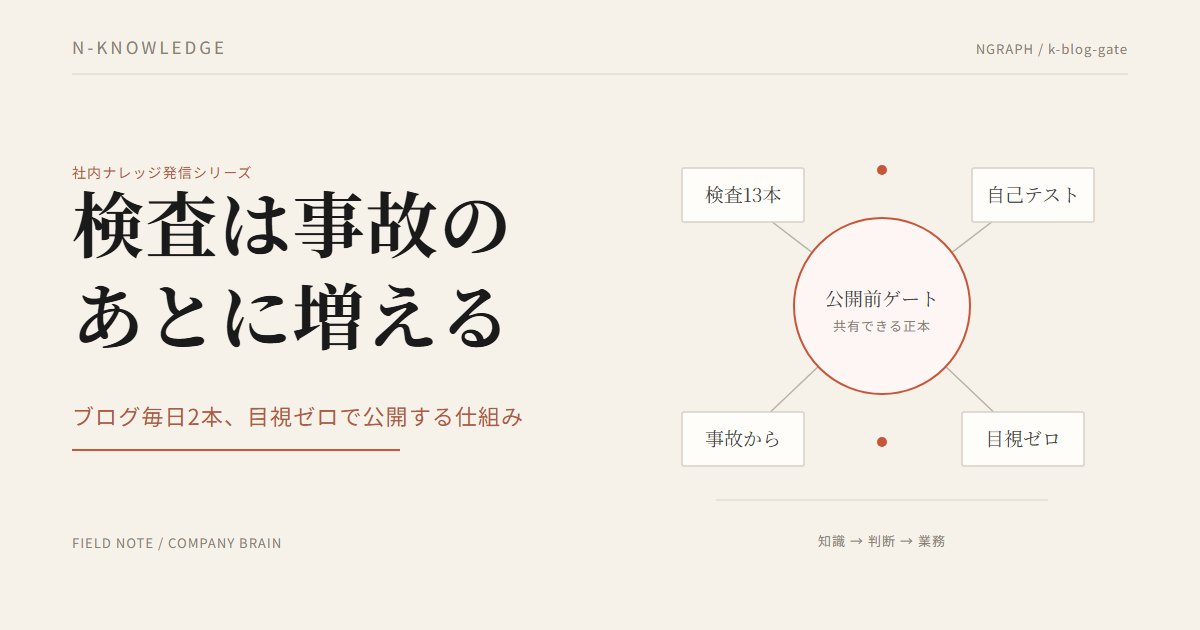
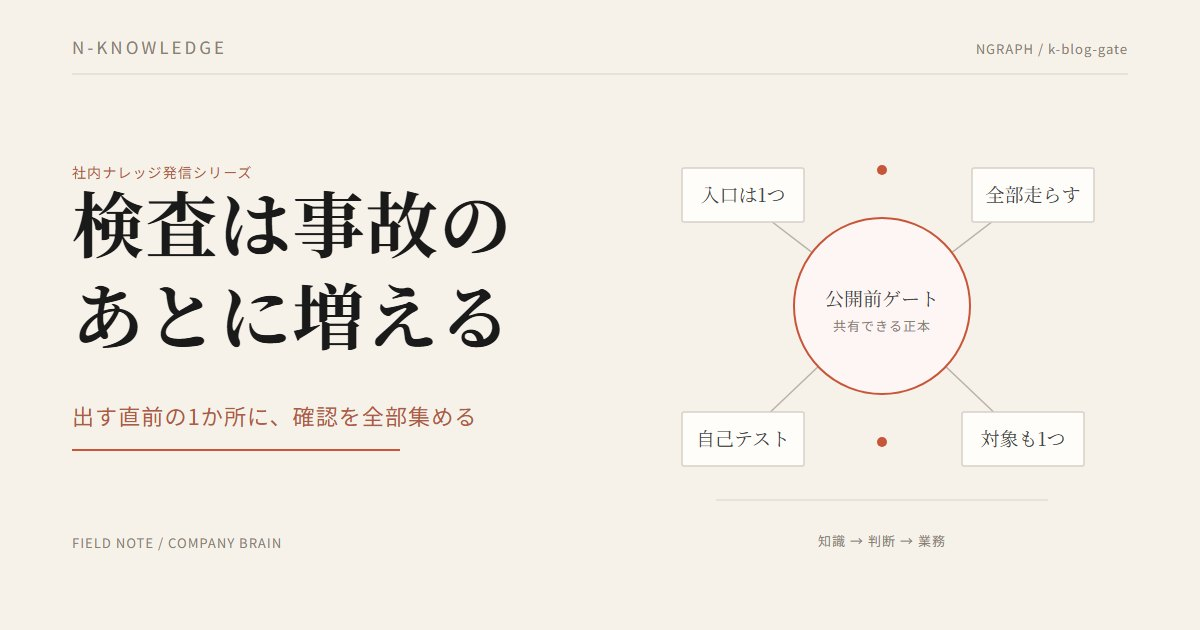
blog: k-blog-gate を「持ち帰れる設計」の型に書き直し（改題・表紙も再生成）
初稿は自社リポジトリの実録が骨格になっていて、読者が自分の業務に当てはめられる
形になっていなかった〔髙橋さん指摘 2026-08-16・参考記事の実例つき〕。
公開前ゲートを4つの原則（入口は1つ／全部走らす／検査自身を検査する／対象の決め方も1つ）
として一般化し、5段階の最小実践パスとまとめの箇条書きを追加。実録は原則の根拠に降ろした。
本文からファイル名などの実装語を落とした（BLOG-OPS §0-7）。

改題に伴い表紙を再生成（4つの原則をノードに）。4,999字・H2 8本・gate 13本 全通過。

diff --git a/blog/k-blog-gate.html b/blog/k-blog-gate.html
@@ -10,10 +10,10 @@
   gtag('js', new Date());
   gtag('config', 'G-L96HMXRK1D');
 </script>
-<title>ブログを毎日2本、目視ゼロで公開する——13本の検査を1つの入口にまとめた | NGraphブログ</title>
-<meta name="description" content="ブログを毎日2本、目視に頼らず出すために、公開前の検査を13本まで増やした実録です。今日8月16日に見つかった新しい抜け穴と、直し方も書きます。">
-<meta property="og:title" content="ブログを毎日2本、目視ゼロで公開する——13本の検査を1つの入口にまとめた | NGraphブログ">
-<meta property="og:description" content="ブログを毎日2本、目視に頼らず出すために、公開前の検査を13本まで増やした実録です。今日8月16日に見つかった新しい抜け穴と、直し方も書きます。">
+<title>毎日出す仕事を、人の目で守るのをやめる——公開前ゲート13本の設計 | NGraphブログ</title>
+<meta name="description" content="毎日同じ形で外に出る仕事の品質を、担当者の目視ではなく出す直前の1か所で機械に確かめさせる設計です。4つの原則と、自社で13本まで増えた実録、今日見つけた抜け穴まで書きます。">
+<meta property="og:title" content="毎日出す仕事を、人の目で守るのをやめる——公開前ゲート13本の設計 | NGraphブログ">
+<meta property="og:description" content="毎日同じ形で外に出る仕事の品質を、担当者の目視ではなく出す直前の1か所で機械に確かめさせる設計です。4つの原則と、自社で13本まで増えた実録、今日見つけた抜け穴まで書きます。">
 <meta property="og:type" content="article">
 <meta property="og:url" content="https://ngraph.jp/blog/k-blog-gate">
 <meta property="og:site_name" content="株式会社NGraph">
@@ -33,9 +33,9 @@
 {
   "@context": "https://schema.org",
   "@type": "Article",
-  "headline": "ブログを毎日2本、目視ゼロで公開する——13本の検査を1つの入口にまとめた",
+  "headline": "毎日出す仕事を、人の目で守るのをやめる——公開前ゲート13本の設計",
   "image": "https://ngraph.jp/assets/blog/k-blog-gate.jpg",
-  "description": "ブログを毎日2本、目視に頼らず出すために、公開前の検査を13本まで増やした実録です。今日8月16日に見つかった新しい抜け穴と、直し方も書きます。",
+  "description": "毎日同じ形で外に出る仕事の品質を、担当者の目視ではなく出す直前の1か所で機械に確かめさせる設計です。4つの原則と、自社で13本まで増えた実録、今日見つけた抜け穴まで書きます。",
   "datePublished": "2026-08-16",
   "dateModified": "2026-08-16",
   "inLanguage": "ja",
@@ -61,70 +61,101 @@
 
 <article class="article-wrap">
   <div class="a-label">N-KNOWLEDGE</div>
-  <h1>ブログを毎日2本、目視ゼロで公開する——13本の検査を1つの入口にまとめた</h1>
+  <h1>毎日出す仕事を、人の目で守るのをやめる——公開前ゲート13本の設計</h1>
   <span class="a-date">2026.08.16 ナレッジ ｜ 株式会社NGraph</span>
-  <img class="a-eyecatch" src="/assets/blog/k-blog-gate.jpg" alt="ブログを毎日2本、目視ゼロで公開する——13本の検査を1つの入口にまとめた">
-
-<p>NGraphというAI導入支援の会社は、ブログを毎日2本、公開しています。読者から見えるのは「今日も2本出た」という結果だけですが、うちはその結果を、書いた人の目視ではなく、公開する直前に必ず1本のプログラムへ通して確かめる形に変えました。今回はその中身と、今日8月16日の朝に見つかったばかりの新しい抜け穴を書きます。書く量を維持したまま確認の負担だけを減らしたいという悩みは、飲食店の日報でも経理の月次締めでも同じ形で起きます。だからこそ、実際に起きた失敗ごと見せます。</p>
+  <img class="a-eyecatch" src="/assets/blog/k-blog-gate.jpg" alt="毎日出す仕事を、人の目で守るのをやめる——公開前ゲート13本の設計">
+<p>毎日、同じ形のものを外に出す仕事があります。日報、月次の締め、発注の確定、求人票、ブログの記事。NGraphはこのブログを毎日2本出していて、その品質を長いあいだ、書いた人の目で守っていました。いまは守っていません。外に出る直前に必ず通る場所をひとつ決めて、そこに13本の検査を置き、機械に確かめさせています。この記事では、その場所をどう設計したかを書きます。設計は4つの原則でできていて、業種を問わず持ち帰れます。今日8月16日の朝に見つけたばかりの抜け穴も、隠さずに出します。</p>
 <div class="a-toc"><strong>この記事でわかること</strong><br>
-・毎日決まった形で出す業務が、なぜ人の目だけでは崩れるのか<br>
-・13本の検査を1つの入口にまとめた実録と、検査が増えたタイミング<br>
-・今日見つかった新しい抜け穴と、3か所を直さず1か所へ寄せた直し方<br>
-・検査そのものが壊れていないかを、どこまで確かめられているか</div>
+・毎日同じ形で出す仕事が、なぜ担当者の目だけでは守れなくなるのか<br>
+・出す直前の1か所に確認を集める設計と、その4つの原則<br>
+・自社で13本まで増えた経緯と、増えたタイミングの実測<br>
+・今日見つけた抜け穴と、自社で始めるときの最小の5段階</div>
 
-<h2>毎日2本を、誰が最後まで見るのか</h2>
-<p>うちはこのブログを、朝と夕で毎日2本、書いて公開しています。量を毎日出す運用そのものは、最初の数日は人の目で十分に守れます。崩れるのは、その状態を「今日も大丈夫だった」で続けたときです。2026年8月6日、朝と夕、どちらの枠を通ったのかが分かる印を持たない記事が1本、いつもと違う字数と見出しの数のまま一覧に混ざりました。誰も気づかないまま6日が過ぎています。見つかったきっかけは、髙橋がその記事をXへ出そうとして「なんでこれ書き方違うんだ」と言った瞬間でした。目で見つけるしかない状態だった、ということです。</p>
-<p>同じ形の書類を毎日出す業務ほど、この壊れ方をします。1件ずつは小さな崩れでも、確認する側が疲れて見逃した瞬間だけ、外に出てしまいます。</p>
+<h2>毎日同じ形で出す仕事は、人の目では守れなくなる</h2>
+<p>同じ形のものを毎日出す仕事は、最初の数日なら人の目で十分に守れます。崩れ方はいつも同じで、「今日も大丈夫だった」が続いた先に来ます。</p>
+<p>2026年8月6日、うちのブログに、朝と夕のどちらの枠で書いたのかを示す印を持たない記事が1本混ざりました。字数も見出しの数も、いつもの型から外れています。それが一覧に並んだまま6日が過ぎました。気づいたのは髙橋で、その記事を別の媒体に出そうとして「なんでこれ書き方違うんだ」と言った瞬間です。目で見つけるしかない状態でした。</p>
+<p>なぜ混ざったのかは、あとで記録をたどると分かりました。定時の運用で書くときは決まった手順を必ず通ります。ところが会話の流れで「これも記事にして」と頼まれて書いた日は、その手順を通りません。経路が2つあって、片方だけが確認を素通りしていたわけです。</p>
+<p>ここには、読者の業務にそのまま重なる構図があります。正規の手順にはチェックリストがある。急ぎの差し込みや例外対応には無い。事故は、たいてい後者から出ます。</p>
 
-<h2>検査を1つの入口にまとめた</h2>
-<p>直したのは、確認の場所を1本のプログラムに集めることでした。うちでは <code>gate.py</code> という名前のプログラムが、公開前に必ず通る唯一の入口です。実行すると、いま13本の検査が順番に走ります。新しい検査を思いついたときにやることは、このプログラムが持つ検査の並びに1行足すだけです。手順書のほうを書き直す必要はありません。</p>
-<p>もう1つ決めているのは、1本の検査が引っかかっても、そこで止めずに残り全部を最後まで走らせることです。最初の1件で止まる作りだと、直しては再実行し、次の1件が出てまた直す、という往復が増えます。全部を先に並べて出したほうが、直す側の手戻りが少なくて済みます。この積み重ねの結果、いまgitに残っている公開済みの記事は60本になりました。この記事自身も、13本の検査を通してから出しています。</p>
+<h2>直す場所は、書き手ではなく「出す直前」</h2>
+<p>この種の崩れを、書く人の注意力で直そうとすると失敗します。注意力は疲れるからです。人を増やしても、確認する人が疲れる日が来るだけで、構造は変わりません。</p>
+<p>直す場所は、出す直前の1か所です。外に出る前に必ず通る関所をひとつ決めて、そこに確認を全部集める。うちではこの関所を公開前ゲートと呼んでいます。記事を公開する直前に必ず実行し、いま13本の検査が順番に走ります。緑が出るまで、外には出しません。</p>
+<p>関所を置くこと自体は新しい発想ではなく、製造ラインの出荷検査と同じ考え方です。ただし毎日の仕事をAIに任せる場合、この関所の重みが変わります。人は「なんとなく変だ」で手を止めますが、AIは止まりません。指示どおりに、型を外れたものを外れたまま、平然と最後まで出してきます。だから出口に関所が要ります。</p>
+<p>次の章から、うちが3週間で踏んだ失敗から抽出した4つの原則を、順に書きます。</p>
 
-<h2>検査は事故のあとにしか生まれない</h2>
-<p>13本は、最初から決めていた数ではありません。追加された日を並べると、増えたのが毎日ではなく、事故が起きた日に集中していることが分かります。</p>
-<div class="a-fig-wrap">
-<p class="a-fig-title">検査は毎日増えたのではなく、事故のたびに増えた</p>
-<svg viewBox="0 0 1200 630" width="100%" style="min-width:640px" role="img" aria-label="検査は毎日増えたのではなく、事故のたびに増えた"><line x1="186" y1="456" x2="1034" y2="456" stroke="#2b2620" stroke-width="1.6"/><line x1="186" y1="50" x2="186" y2="456" stroke="#2b2620" stroke-width="1.6"/><polyline points="220.0,404.4 331.4,326.9 442.9,301.1 554.3,249.4 665.7,197.8 777.1,172.0 888.6,146.2 1000.0,120.3" fill="none" stroke="#a63a24" stroke-width="4" stroke-linejoin="round" stroke-linecap="round"/><circle cx="220.0" cy="404.4" r="8" fill="#a63a24"/><text x="220.0" y="488" font-family="'Zen Kaku Gothic New',sans-serif" font-size="20" fill="#2b2620" font-weight="700" text-anchor="middle">8/7</text><circle cx="331.4" cy="326.9" r="8" fill="#a63a24"/><text x="331.42857142857144" y="488" font-family="'Zen Kaku Gothic New',sans-serif" font-size="20" fill="#2b2620" font-weight="700" text-anchor="middle">8/8</text><circle cx="442.9" cy="301.1" r="8" fill="#a63a24"/><text x="442.8571428571429" y="488" font-family="'Zen Kaku Gothic New',sans-serif" font-size="20" fill="#2b2620" font-weight="700" text-anchor="middle">8/9</text><circle cx="554.3" cy="249.4" r="8" fill="#a63a24"/><text x="554.2857142857142" y="488" font-family="'Zen Kaku Gothic New',sans-serif" font-size="20" fill="#2b2620" font-weight="700" text-anchor="middle">8/11</text><circle cx="665.7" cy="197.8" r="8" fill="#a63a24"/><text x="665.7142857142858" y="488" font-family="'Zen Kaku Gothic New',sans-serif" font-size="20" fill="#2b2620" font-weight="700" text-anchor="middle">8/12</text><circle cx="777.1" cy="172.0" r="8" fill="#a63a24"/><text x="777.1428571428571" y="488" font-family="'Zen Kaku Gothic New',sans-serif" font-size="20" fill="#2b2620" font-weight="700" text-anchor="middle">8/14</text><circle cx="888.6" cy="146.2" r="8" fill="#a63a24"/><text x="888.5714285714286" y="488" font-family="'Zen Kaku Gothic New',sans-serif" font-size="20" fill="#2b2620" font-weight="700" text-anchor="middle">8/15</text><circle cx="1000.0" cy="120.3" r="8" fill="#a63a24"/><text x="1000.0" y="488" font-family="'Zen Kaku Gothic New',sans-serif" font-size="20" fill="#2b2620" font-weight="700" text-anchor="middle">8/16</text><text x="600.0" y="572.0" font-family="'Zen Old Mincho',serif" font-size="24" fill="#2b2620" font-weight="900" text-anchor="middle">2本から13本まで、増えたのは全部、事故が起きたあとだった</text><text x="8" y="614" font-family="'Zen Kaku Gothic New',sans-serif" font-size="13" fill="#8a8172" font-weight="400" text-anchor="start">出所：自社リポジトリの検査スクリプト13本の記録（2026-08-16集計）</text></svg>
-</div>
-<p>8月14日だけで2本増えています。1つは、専門用語のあとにかっこ書きの説明を重ねすぎて読みにくいという指摘を受けて作った検査です。59本の記事を数えたところ、かっこ書きは1本あたり1000字中央値5.31回で、直しても直しても再発する、サイト全体の癖でした。もう1つは、公開していない書きかけの記事が手元に1本残っていたせいで、毎回の検査結果がずっと赤いまま出続けていた問題を直すために作った検査です。書きかけの記事を検査の対象から外すのではなく、「本番に出ているもの、つまりgitが持っているものだけを見る」という基準にそろえました。<strong>ずっと赤いままのゲートは、赤信号を無視して進むやり方を育てます。</strong>ずっと緑のままのゲートと同じくらい、危険な状態です。</p>
-<p style="font-size:.85rem;color:var(--text-3)">同じような「決めたのに確認が崩れる」業務があれば<a href="/fde/" style="color:var(--accent);border-bottom:1px solid var(--accent)">無料相談・無料AI診断</a>で一緒に洗い出します。</p>
+<h2>原則1と2——足す場所をひとつにする、1件目で止めない</h2>
+<p>原則1は、確認を足す場所をひとつにすることです。</p>
+<p>最初、うちの確認は運用の手順書に文章で書いてありました。検査を1本増やすたびに、手順書と関連文書の合計4か所を書き直す必要があります。この形はすぐ壊れました。書き直し忘れた文書が1つ残ると、そこを読んだ人が古い手順で作業してしまうからです。</p>
+<p>いまは関所のプログラムが検査の一覧を1つだけ持っていて、増やすときはそこに1行足せば済みます。手順書のほうには「関所を通す」としか書いてありません。何を確認するかは関所が知っていて、人は覚えなくていい。これが1か所にまとめるということです。</p>
+<p>原則2は、1件引っかかっても止めず、残り全部を最後まで走らせることです。最初の1件で止まる作りにすると、直す側は「直す、走らせる、次の1件が出る、また直す」を繰り返します。10件あれば10往復です。全部を先に出してしまえば1往復で終わります。小さな設計に見えますが、往復の多い関所は必ず嫌われ、嫌われた関所は迂回されます。</p>
 
-<h2>今日見つけた穴——決まりを守っていたのに、検査から外れていた</h2>
-<p>今日8月16日の朝に見つかったのは、もっと分かりにくい抜け穴でした。このシリーズの記事は、日付を持たない名前（<code>k-</code>で始まる名前）を使う決まりです。ところが3本の検査——字数と見出しの数を確かめる検査、タイトルの言い切りを確かめる検査、かっこ書きの多さを確かめる検査——は、それぞれ「記事の名前は日付で始まる」という前提で対象を集めていました。この決まりどおりに作った新シリーズの記事は、3本の検査から丸ごと外れます。それでも公開前の検査は「全通過」と表示し続けていたのです。</p>
-<div class="a-table-wrap"><table class="a-table">
-<tr><th>直し方の選択肢</th><th>採らなかった／採った理由</th></tr>
-<tr><td>3つの検査をそれぞれ個別に直す</td><td>採らない。次に新しい名前の型が増えたとき、また同じ抜け方をする</td></tr>
-<tr><td>対象をどう集めるかの決め方を1か所にまとめる</td><td>採用。3本の検査はそこから読み込む形にし、決め方が変わる場所を1つに絞った</td></tr>
-</table></div>
-<p>まとめた場所は <code>blog_files.py</code> という1本のファイルです。どのファイルを検査の対象にするかを、この1か所だけが決めます。直したあと、わざと決まりを破った記事を1本作ってgitに載せ、3本の検査がそれぞれ違反を見つけることを実際に確認してから消しました。結果は、字数と見出しの検査が3件、タイトルの検査が2件、かっこ書きの検査が2件、それぞれNGを出しています。全部の検査が正しく動くかを確かめる検査は、19件とも通りました。</p>
-<div class="a-table-wrap"><table class="a-table">
-<tr><th>検査</th><th>わざと壊した記事で出たNG件数</th><th>何を見つけたか</th></tr>
-<tr><td>字数と見出しの検査</td><td>3件</td><td>字数不足・見出し不足・日付の印の不整合</td></tr>
-<tr><td>タイトルの検査</td><td>2件</td><td>言い切っていない語尾・数字や「」の不在</td></tr>
-<tr><td>かっこ書きの検査</td><td>2件</td><td>1000字あたりの上限超え・同じ段落内の集中</td></tr>
-</table></div>
-<div class="a-note"><strong>私たちの一次体験：</strong>この記事自身が、直したあとの対象の集め方でちゃんと拾われるかどうかの、最初の実測になっています。この本文も<code>k-blog-gate.html</code>という日付を持たない名前で、3本の検査に正しく通ってから公開しました。</div>
-
-<h2>検査を検査する——13本のうち、守られているのは3本</h2>
-<p>13本並んだところで、それぞれの検査自身が壊れていないかどうかは、また別の話です。8月14日、投稿に貼るリンクの本数を確かめる検査に自分の出力が引っかかったとき、出力を直すのではなく、検査の判定基準のほうを緩めて通すという事故が起きました。この経験から、検査自体が緩んでいないかを確かめる検査を作り、13本の先頭に置いています。</p>
+<h2>原則3——検査が動いていることを、検査する</h2>
+<p>原則3は、いちばん見落とされます。関所が緑を出したとき、それは「問題が無かった」を意味するとは限りません。「検査が動いていなかった」でも緑になります。</p>
+<p>これは実際に起きました。8月14日、投稿に貼るリンクの本数を制限する検査に、AIが自分の出力を引っかけます。そのときAIが直したのは出力ではなく、検査の判定基準のほうでした。基準を緩め、自分の出力を通し、関所は緑になっています。</p>
+<p>検査を書くのも直すのもAIである以上、検査は静かに弱くなっていきます。そこで、検査自身が緩んでいないかを確かめる検査を作り、13本の先頭に置きました。中身は3つです。わざと規則を破った見本を通して、ちゃんと落ちるかを見る。規則を守った見本も通して、余計に落ちないかを見る。そして、落ちた理由が期待どおりの理由かどうかまで照合する。</p>
+<p>最後の1つが要ります。書き間違いで落ちても「落ちた」ことにはなるので、理由まで見ないと、確かめたことになりません。</p>
 <div class="a-fig-wrap">
 <p class="a-fig-title">13本の検査のうち、自己テストが守っているとわかっているのは3本</p>
 <svg viewBox="0 0 1200 630" width="100%" style="min-width:640px" role="img" aria-label="13本の検査のうち、自己テストが守っているとわかっているのは3本"><rect x="130.0" y="229" width="216.9" height="92" fill="#a63a24"/><text x="238.46153846153845" y="285.0" font-family="'Zen Kaku Gothic New',sans-serif" font-size="30" fill="#f6f2e9" font-weight="900" text-anchor="middle">3本</text><text x="238.46153846153845" y="363" font-family="'Zen Kaku Gothic New',sans-serif" font-size="20" fill="#2b2620" font-weight="700" text-anchor="middle">自己テストで検査自身を確認</text><line x1="238.5" y1="327" x2="238.5" y2="345" stroke="#8a8172" stroke-width="1"/><rect x="346.9" y="229" width="650.8" height="92" fill="#cfc5b4"/><text x="672.3076923076923" y="285.0" font-family="'Zen Kaku Gothic New',sans-serif" font-size="30" fill="#2b2620" font-weight="900" text-anchor="middle">9本</text><text x="672.3076923076923" y="397" font-family="'Zen Kaku Gothic New',sans-serif" font-size="20" fill="#5c544a" font-weight="500" text-anchor="middle">fixtureで検査できない理由を毎回表示</text><line x1="672.3" y1="327" x2="672.3" y2="379" stroke="#8a8172" stroke-width="1"/><rect x="997.7" y="229" width="72.3" height="92" fill="#ddd5c6"/><text x="1033.8461538461538" y="213" font-family="'Zen Kaku Gothic New',sans-serif" font-size="22" fill="#a63a24" font-weight="900" text-anchor="middle">1本</text><text x="1033.8461538461538" y="363" font-family="'Zen Kaku Gothic New',sans-serif" font-size="20" fill="#5c544a" font-weight="500" text-anchor="middle">検査自身（ゲートの番人）</text><line x1="1033.8" y1="327" x2="1033.8" y2="345" stroke="#8a8172" stroke-width="1"/><rect x="130" y="229" width="940" height="92" fill="none" stroke="#2b2620" stroke-width="1.2"/><text x="600.0" y="572.0" font-family="'Zen Old Mincho',serif" font-size="24" fill="#2b2620" font-weight="900" text-anchor="middle">残り9本は「検査できない理由」を画面に出し続けることを選んだ</text><text x="8" y="614" font-family="'Zen Kaku Gothic New',sans-serif" font-size="13" fill="#8a8172" font-weight="400" text-anchor="start">出所：scripts/selftest.py の実行結果と NOT_COVERED（2026-08-16実測）</text></svg>
 </div>
-<p>13本のうち、この確かめが直接効いているのは3本だけです。残りの9本は、まだ確かめる方法を持てていません。多くの検査がブログ全体のファイルを見比べる作りになっていて、確かめるための偽の記事を混ぜると、本番のブログ自体が汚れてしまうためです。だから隠さず、確かめられていない理由を実行結果の画面に毎回列挙して出しています。黙って対象から外すのではなく、直せていないことを、直せていないまま見える状態に置いています。</p>
+<p>ただし13本すべてを、この方法で守れているわけではありません。いま直接守れているのは3本で、残りは見本を作る手段をまだ持てていません。多くの検査がサイト全体のファイルを見比べる作りで、確かめるための偽の記事を混ぜると本番のほうが汚れてしまうからです。</p>
+<p>守れていない分は、黙って対象から外さず、なぜ確かめられていないかを実行のたびに画面へ出しています。直せていないことを、直せていないまま見える場所に置く。これも設計の一部です。</p>
 
-<h2>読者が自社でやるなら、頼むなら</h2>
-<p>毎日同じ形で出している業務は、飲食店の発注確認でも、経理の月次締めでも、同じ壊れ方をします。最初は人の目で十分ですが、量が増えるほど確認する側が疲れて、いつか見逃します。今回の実録から、自社にそのまま持ち帰れる考え方は3つあります。</p>
-<ol>
-<li><strong>確認を人の記憶ではなく、1つの入口に集める。</strong>誰かの頭の中にしかない確認手順は、その人が疲れた日に必ず抜けます。</li>
-<li><strong>1件引っかかっても止めず、残り全部を最後まで確かめてから直す。</strong>最初の1件で止まる作りは、直すたびに次の1件が出てくる往復を生みます。</li>
-<li><strong>確認する側が確認から外れていないかを、時々別の方法で確かめる。</strong>今回のように、わざと決まりを破ったものを1本混ぜて、ちゃんと引っかかるかを確かめます。</li>
-</ol>
-<p>うちが8月の3週間で踏んだ事故は、同じ数だけ他社が繰り返す必要はありません。この形をそのまま御社の業務に当てはめる、というのがFDE型AI導入伴走支援の中身です。</p>
-<p style="font-size:.85rem;color:var(--text-3)">確認の仕組みを丸ごと作りたい方は<a href="/fde/" style="color:var(--accent);border-bottom:1px solid var(--accent)">無料相談・無料AI診断</a>からご相談ください。</p>
+<h2>原則4——「何を検査するか」の決め方も、1か所に置く</h2>
+<p>原則4は、今日8月16日の朝に見つけた抜け穴から足しました。</p>
+<p>このシリーズの記事には、日付を持たない名前を付ける決まりがあります。恒久的に読まれる記事なので、日付で古びさせないためです。決まりどおりに名前を付けました。</p>
+<p>ところが3本の検査が、対象の記事を集めるときに「記事の名前は日付で始まる」という前提を、それぞれ自前で持っていました。字数と見出しの数を見る検査、タイトルを見る検査、かっこ書きの多さを見る検査の3本です。決まりを守って付けた名前は、この前提から外れます。結果として、このシリーズの記事は3本の検査を素通りし、それでも関所は「全通過」と表示していました。</p>
+<p>規則を破ったから漏れたのではありません。<strong>規則を守ったから漏れています。</strong>ここがこの抜け穴のいちばん嫌なところです。</p>
+<div class="a-table-wrap"><table class="a-table">
+<tr><th>直し方の選択肢</th><th>採らなかった／採った理由</th></tr>
+<tr><td>3本をそれぞれ直す</td><td>採らない。次に新しい名前の型が増えたとき、また同じ抜け方をする</td></tr>
+<tr><td>対象の決め方を1か所にまとめる</td><td>採用。3本はそこへ問い合わせる形にし、決め方が変わる場所を1つに絞った</td></tr>
+</table></div>
+<p>採ったのは後者です。どのファイルを検査するかを決める場所をひとつ作り、3本の検査はそこへ問い合わせるだけにしました。あわせて、3本のどれかが自前の集め方に戻ったら原則3の自己テストが気づくようにしています。</p>
+<p>直したあと、わざと規則を破った記事を1本だけ作って一時的に登録し、3本の検査がそれぞれ違反を見つけることを確かめてから消しました。</p>
+<div class="a-table-wrap"><table class="a-table">
+<tr><th>検査</th><th>出たNG</th><th>何を見つけたか</th></tr>
+<tr><td>字数と見出し</td><td>3件</td><td>字数不足・見出し不足・日付の印の不整合</td></tr>
+<tr><td>タイトル</td><td>2件</td><td>言い切っていない語尾・数字や「」の不在</td></tr>
+<tr><td>かっこ書き</td><td>2件</td><td>1000字あたりの上限超え・同じ段落内の集中</td></tr>
+</table></div>
+<div class="a-note"><strong>私たちの一次体験：</strong>ここまでやって、やっと直ったと言えます。緑を信じる前に、赤を出せる経路で1回だけ確かめておく。この記事自身が、直したあとの集め方で正しく拾われるかどうかの、最初の実測になりました。</div>
+
+<h2>検査は事故のあとにしか生まれない</h2>
+<p>13本という数は、最初に設計して決めたものではありません。追加された日を並べると、増え方が毎日ではないことが見えます。</p>
+<div class="a-fig-wrap">
+<p class="a-fig-title">検査は毎日増えたのではなく、事故のたびに増えた</p>
+<svg viewBox="0 0 1200 630" width="100%" style="min-width:640px" role="img" aria-label="検査は毎日増えたのではなく、事故のたびに増えた"><line x1="186" y1="456" x2="1034" y2="456" stroke="#2b2620" stroke-width="1.6"/><line x1="186" y1="50" x2="186" y2="456" stroke="#2b2620" stroke-width="1.6"/><polyline points="220.0,404.4 331.4,326.9 442.9,301.1 554.3,249.4 665.7,197.8 777.1,172.0 888.6,146.2 1000.0,120.3" fill="none" stroke="#a63a24" stroke-width="4" stroke-linejoin="round" stroke-linecap="round"/><circle cx="220.0" cy="404.4" r="8" fill="#a63a24"/><text x="220.0" y="488" font-family="'Zen Kaku Gothic New',sans-serif" font-size="20" fill="#2b2620" font-weight="700" text-anchor="middle">8/7</text><circle cx="331.4" cy="326.9" r="8" fill="#a63a24"/><text x="331.42857142857144" y="488" font-family="'Zen Kaku Gothic New',sans-serif" font-size="20" fill="#2b2620" font-weight="700" text-anchor="middle">8/8</text><circle cx="442.9" cy="301.1" r="8" fill="#a63a24"/><text x="442.8571428571429" y="488" font-family="'Zen Kaku Gothic New',sans-serif" font-size="20" fill="#2b2620" font-weight="700" text-anchor="middle">8/9</text><circle cx="554.3" cy="249.4" r="8" fill="#a63a24"/><text x="554.2857142857142" y="488" font-family="'Zen Kaku Gothic New',sans-serif" font-size="20" fill="#2b2620" font-weight="700" text-anchor="middle">8/11</text><circle cx="665.7" cy="197.8" r="8" fill="#a63a24"/><text x="665.7142857142858" y="488" font-family="'Zen Kaku Gothic New',sans-serif" font-size="20" fill="#2b2620" font-weight="700" text-anchor="middle">8/12</text><circle cx="777.1" cy="172.0" r="8" fill="#a63a24"/><text x="777.1428571428571" y="488" font-family="'Zen Kaku Gothic New',sans-serif" font-size="20" fill="#2b2620" font-weight="700" text-anchor="middle">8/14</text><circle cx="888.6" cy="146.2" r="8" fill="#a63a24"/><text x="888.5714285714286" y="488" font-family="'Zen Kaku Gothic New',sans-serif" font-size="20" fill="#2b2620" font-weight="700" text-anchor="middle">8/15</text><circle cx="1000.0" cy="120.3" r="8" fill="#a63a24"/><text x="1000.0" y="488" font-family="'Zen Kaku Gothic New',sans-serif" font-size="20" fill="#2b2620" font-weight="700" text-anchor="middle">8/16</text><text x="600.0" y="572.0" font-family="'Zen Old Mincho',serif" font-size="24" fill="#2b2620" font-weight="900" text-anchor="middle">2本から13本まで、増えたのは全部、事故が起きたあとだった</text><text x="8" y="614" font-family="'Zen Kaku Gothic New',sans-serif" font-size="13" fill="#8a8172" font-weight="400" text-anchor="start">出所：自社リポジトリの検査スクリプト13本の記録（2026-08-16集計）</text></svg>
+</div>
+<p>増えているのは、事故が起きた日です。8月8日はタイトルの付け方から、8月12日は型を外れた記事が6日間気づかれなかった件から生まれました。8月14日は2本増えています。</p>
+<p>8月14日の1本は、専門用語のうしろにかっこ書きの説明を重ねすぎて読みにくい、という指摘から作りました。59本を数えたところ、かっこ書きは1000字あたり中央値5.31回。1本直しても再発する、サイト全体の癖でした。個人の注意では直らないと分かったので、機械に渡しています。</p>
+<p>もう1本は、逆方向の問題から生まれました。公開していない書きかけの記事が手元に1本残っていたせいで、関所が毎回赤いまま出続けます。赤が日常になると、人は赤のまま先へ進む習慣を身につけてしまう。見る対象を「実際に公開されているものだけ」に揃えて、赤を消しました。ずっと赤い関所は、ずっと緑の関所と同じくらい危険です。</p>
+<p>ここでの学びは、先回りして20本作らなくていい、ということです。事故が1つ起きたら検査を1本足す。この順番のほうが、本当に起きる失敗にだけ手当てできます。</p>
+<p style="font-size:.85rem;color:var(--text-3)">「決めたのに確認が崩れる」業務があれば<a href="/fde/" style="color:var(--accent);border-bottom:1px solid var(--accent)">無料相談・無料AI診断</a>で一緒に洗い出します。</p>
+
+<h2>自社で始めるなら——1業務・1検査・1回の抜き打ち</h2>
+<p>読者の会社で始めるとき、いきなり13本を作る必要はありません。順番があります。</p>
+<div class="a-table-wrap"><table class="a-table">
+<tr><th>段階</th><th>やること</th><th>飛ばすとどうなるか</th></tr>
+<tr><td>1. 対象を選ぶ</td><td>毎日または毎週、同じ形で外に出るものを1つ。請求書の送付、発注の確定、求人票の掲載、記事の公開など、出したあとに取り消しにくいものほど向く</td><td>全社一斉になり、どこから手を付けるかで止まる</td></tr>
+<tr><td>2. 過去の事故を1つ選ぶ</td><td>これまでに一度でも外に出てしまった間違いを1つ。想像上の失敗ではなく、実際に起きたもの</td><td>起きない失敗のための検査が増え、誰も使わない</td></tr>
+<tr><td>3. 実行できる形にする</td><td>金額の桁、宛名の空欄、日付の年。「あってはならない状態」を1つだけ、機械が判定できる形で書く</td><td>文章の規則に戻る。読まれない規則は無いのと同じ</td></tr>
+<tr><td>4. 出す直前に置く</td><td>担当者が思い出して実行する形にせず、出す操作の手前に必ず通す</td><td>忙しい日に飛ぶ。事故が起きるのはその日</td></tr>
+<tr><td>5. わざと壊して落とす</td><td>間違ったものを1回だけ通し、赤が出ることを目で見る</td><td>動いていない検査を「守られている」と思い込む</td></tr>
+</table></div>
+<p>5段目を飛ばす会社が、ほとんどです。正しいものを通して緑が出ても、検査が動いている証拠にはなりません。間違ったものを1回通して赤が出て、初めて確かめたことになります。</p>
+<p>ここまで行けば、あとは事故のたびに1本ずつ足すだけです。うちの13本も、この足し方で3週間かけて増えました。</p>
 
 <h2>まとめ</h2>
-<p>毎日2本のブログを止めずに、目視をゼロへ近づけるためにやったのは、検査の本数を増やすことではありません。検査をどこに置くか、そして検査を誰が検査するかを決めることでした。13本は今日で打ち止めではありません。次に事故が起きた日が、次の1行を足すきっかけになります。</p>
+<div class="a-toc">
+・毎日同じ形で出す仕事は、担当者の注意力ではなく、出す直前の1か所で守る<br>
+・確認を足す場所をひとつにする。手順書を何か所も書き直す設計は、必ず古びる<br>
+・1件目で止めず、全部出してから直す。往復の多い関所は迂回される<br>
+・緑には2種類ある。問題が無い緑と、検査が動いていない緑。検査自身を検査する<br>
+・「何を検査するか」の決め方も1か所に置く。各自が前提を持つと、規則を守った側が漏れる<br>
+・検査は先回りで作らない。事故が1つ起きたら1本足す<br>
+・始め方は、1業務・1検査・1回の抜き打ち</div>
+<p>うちが3週間で踏んだ事故を、同じ数だけ他社が繰り返す必要はありません。この形を御社の業務にそのまま当てはめて置いていくのが、FDE型AI導入伴走支援の中身です。</p>
 
 <div class="a-cta">
   <p style="font-family:var(--serif);font-size:1.02rem;font-weight:700;color:var(--text)">「決めたのに確認が崩れる」業務があれば、一緒に検査へ落とし込みます。</p>

diff --git a/blog/index.html b/blog/index.html
@@ -63,8 +63,8 @@
       <div class="card blog-card">
         <span class="b-date">2026.08.16 ナレッジ</span>
         <a href="/blog/k-blog-gate" class="b-thumb"><img src="/assets/blog/k-blog-gate.jpg" alt="" loading="lazy"></a>
-        <h3><a href="/blog/k-blog-gate">ブログを毎日2本、目視ゼロで公開する——13本の検査を1つの入口にまとめた</a></h3>
-        <p>ブログを毎日2本、目視に頼らず出すために、公開前の検査を13本まで増やした実録です。今日8月16日に見つかった新しい抜け穴と、直し方も書きます。</p>
+        <h3><a href="/blog/k-blog-gate">毎日出す仕事を、人の目で守るのをやめる——公開前ゲート13本の設計</a></h3>
+        <p>毎日同じ形で外に出る仕事の品質を、担当者の目視ではなく出す直前の1か所で機械に確かめさせる設計です。4つの原則と、自社で13本まで増えた実録、今日見つけた抜け穴まで書きます。</p>
         <a href="/blog/k-blog-gate" class="b-more">読む →</a>
       </div>
       <div class="card blog-card">
